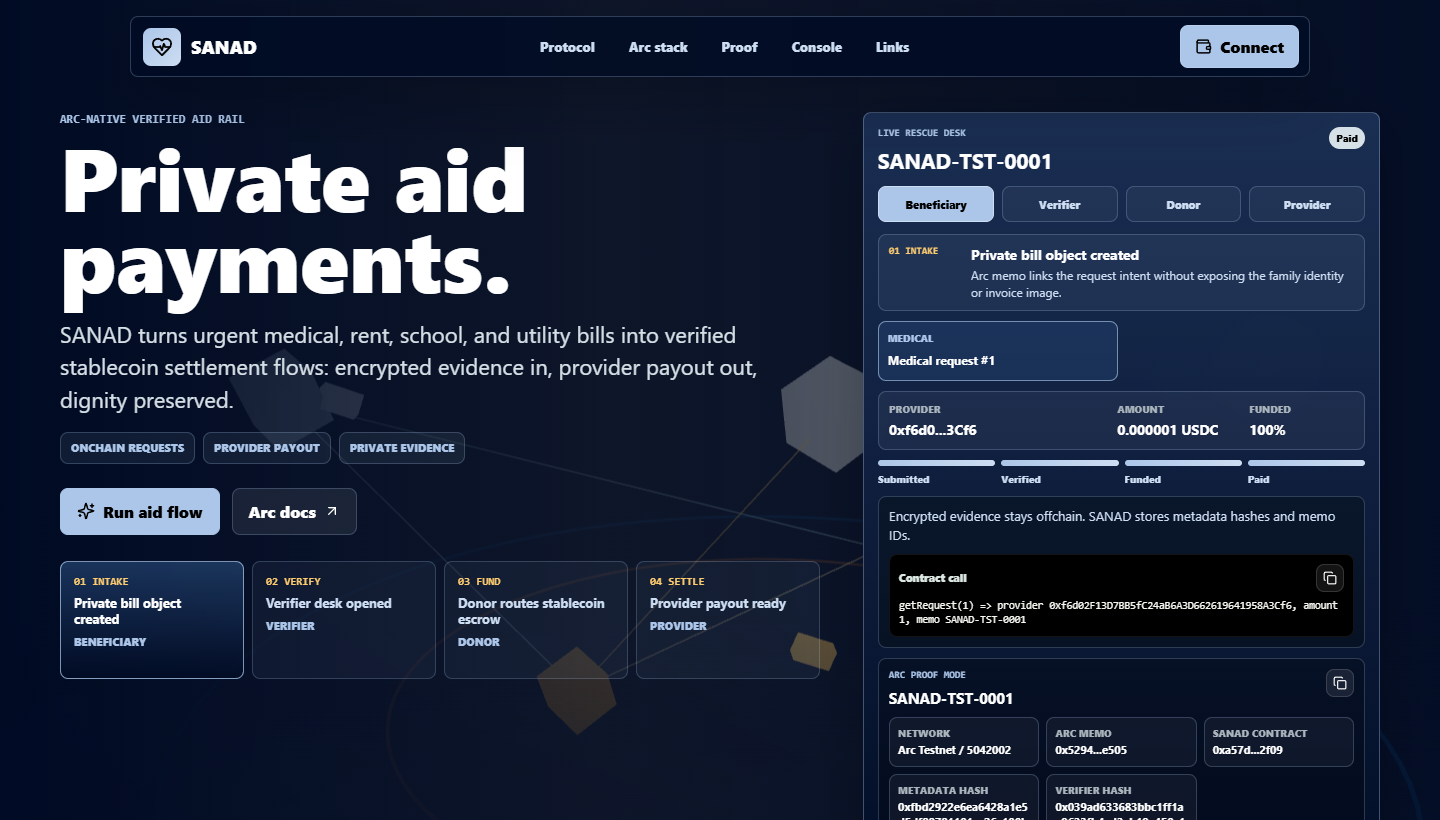
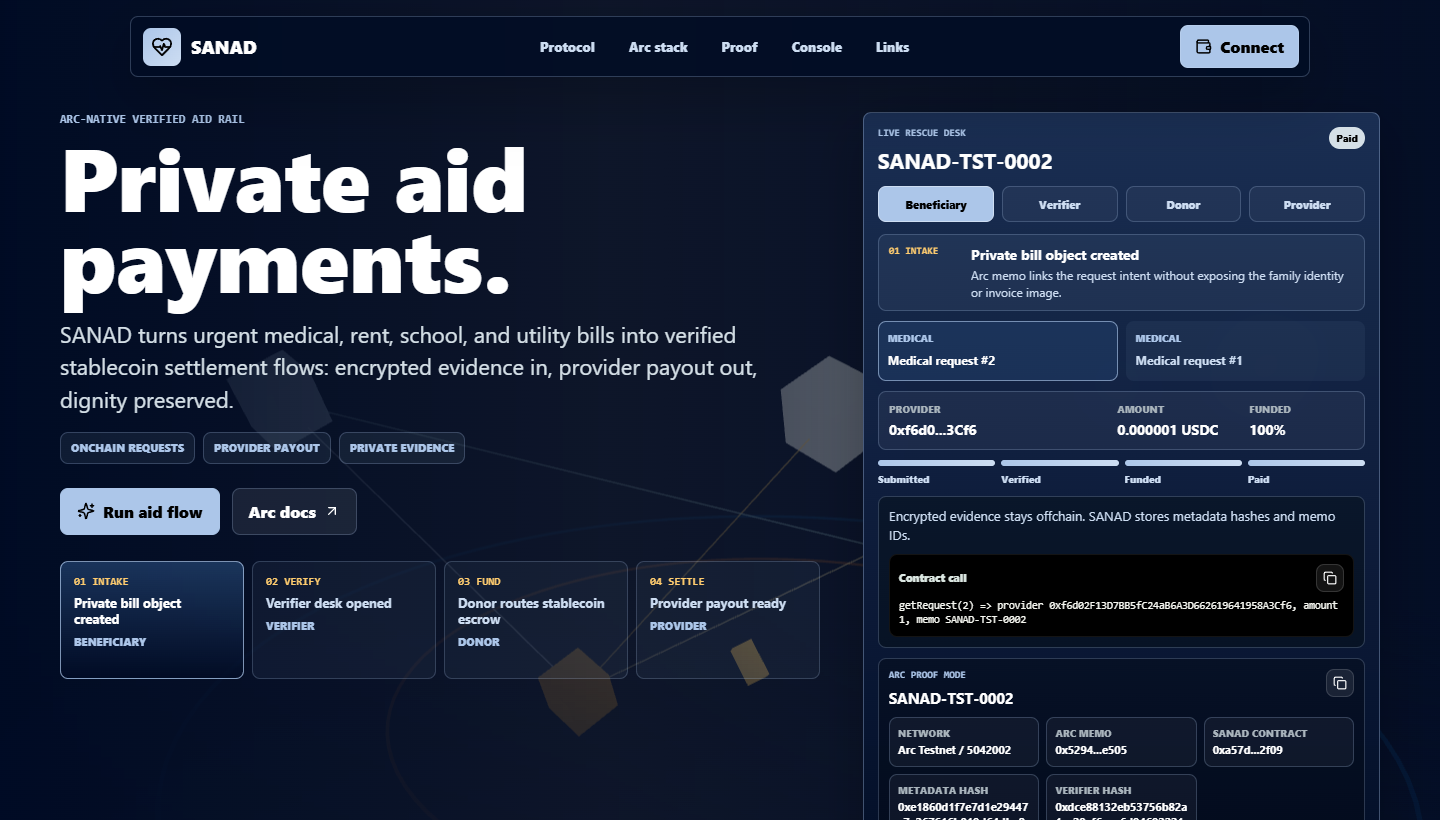
Record final Arc contract smoke test

diff --git a/docs/demo-proof.md b/docs/demo-proof.md
@@ -16,7 +16,34 @@ Contract: 0xa57dd3b2e5980246ecb6b1c41ff4415066e32f09
 - Contract address: https://testnet.arcscan.app/address/0xa57dd3b2e5980246ecb6b1c41ff4415066e32f09
 - Deploy tx: https://testnet.arcscan.app/tx/0x1f522810110d87114927c891a1bebf615b76751c30fbd1e30b49e2985c7e65e1
 
-## Live contract test
+## Latest live contract test
+
+Request tested: `2`
+
+This final smoke test was run after the GitHub and Vercel deployment checks. It confirmed the full request lifecycle again on the deployed contract:
+
+1. Owner check passed.
+2. Provider allowlist update passed.
+3. Verifier allowlist update passed.
+4. Request submission passed.
+5. Request readback passed.
+6. Verification passed.
+7. USDC approval passed.
+8. Funding passed.
+9. Provider payout passed.
+10. Final request status is `Paid`.
+
+Latest transaction links:
+
+- `setProvider`: https://testnet.arcscan.app/tx/0xbd063cabd8036f94e0b43152ad8cb35b2d86052485b657e1fd48720b20fef152
+- `setVerifier`: https://testnet.arcscan.app/tx/0xc7d21c434bbb3144c7bf1e4e71ec3165fdd19d0c25d951eeb4b33c17242b90d6
+- `submitRequest`: https://testnet.arcscan.app/tx/0x94be8b05f9268dc877bd08227ad796a8116e24efe4b4afa388b4953939fc1316
+- `verifyRequest`: https://testnet.arcscan.app/tx/0x297ef02c526e03b06769569697f3fce12b720741f8228d719aa4515ade2665ad
+- `approve`: https://testnet.arcscan.app/tx/0x46a1615b32c5631ba279f80b575fac841688375d8c8e7b2067a78dc2a9c16d05
+- `fundRequest`: https://testnet.arcscan.app/tx/0xd94cc0f26c24de7794aeef2bde3f4a8ecc963e83d3aa48b95cfa9ee843f78740
+- `payProvider`: https://testnet.arcscan.app/tx/0xc4a69d1f7f0108f7f7796858a60dc219c667ff081fa71390ddb9fbb33ddbe3b7
+
+## Earlier live contract test
 
 Request tested: `1`
 

diff --git a/README.md b/README.md
@@ -57,17 +57,17 @@ The current deployment has a real Arc Testnet end-to-end proof.
 
 | Step | Contract action | Public proof |
 | --- | --- | --- |
-| 1 | Allow provider | [`setProvider`](https://testnet.arcscan.app/tx/0xf61de4eed17ffeedf929670aecce22c981e0c7c7423e56f3754acf4651716e86) |
-| 2 | Allow verifier | [`setVerifier`](https://testnet.arcscan.app/tx/0x2a91cd1be193e0c5bebf986bbcf0e53238e1c58ef99fa6493223da78721c502b) |
-| 3 | Submit aid request | [`submitRequest`](https://testnet.arcscan.app/tx/0xbb97249ff17ce0dbda0dfd74ed17af80f4b135b486a98479277ecd86c5dbdd03) |
-| 4 | Verify request | [`verifyRequest`](https://testnet.arcscan.app/tx/0x9b0cca39cc13654f3bd81a6aeeaa7dd51b0af2d0c472b89af9301f9427311154) |
-| 5 | Approve escrow transfer | [`approve`](https://testnet.arcscan.app/tx/0xc1457223334f86d75ca1c6c9cba647d977fbf7f9447d2ada7479983ac9a1f5dc) |
-| 6 | Fund request | [`fundRequest`](https://testnet.arcscan.app/tx/0x0991b5bb1cfa3b75686eccb63e913dbd8ba00c8e1779ef39189786c01de1f239) |
-| 7 | Pay provider | [`payProvider`](https://testnet.arcscan.app/tx/0x939c4f39a8a2ee5a508baa2e44ab9cfc6da86e28444a684d3b27ae88a09661d6) |
+| 1 | Allow provider | [`setProvider`](https://testnet.arcscan.app/tx/0xbd063cabd8036f94e0b43152ad8cb35b2d86052485b657e1fd48720b20fef152) |
+| 2 | Allow verifier | [`setVerifier`](https://testnet.arcscan.app/tx/0xc7d21c434bbb3144c7bf1e4e71ec3165fdd19d0c25d951eeb4b33c17242b90d6) |
+| 3 | Submit aid request | [`submitRequest`](https://testnet.arcscan.app/tx/0x94be8b05f9268dc877bd08227ad796a8116e24efe4b4afa388b4953939fc1316) |
+| 4 | Verify request | [`verifyRequest`](https://testnet.arcscan.app/tx/0x297ef02c526e03b06769569697f3fce12b720741f8228d719aa4515ade2665ad) |
+| 5 | Approve escrow transfer | [`approve`](https://testnet.arcscan.app/tx/0x46a1615b32c5631ba279f80b575fac841688375d8c8e7b2067a78dc2a9c16d05) |
+| 6 | Fund request | [`fundRequest`](https://testnet.arcscan.app/tx/0xd94cc0f26c24de7794aeef2bde3f4a8ecc963e83d3aa48b95cfa9ee843f78740) |
+| 7 | Pay provider | [`payProvider`](https://testnet.arcscan.app/tx/0xc4a69d1f7f0108f7f7796858a60dc219c667ff081fa71390ddb9fbb33ddbe3b7) |
 
 Final request state: `Paid`
 
-Request tested: `1`
+Request tested: `2`
 
 Memo shown in app: `SANAD-TST-0001`
 